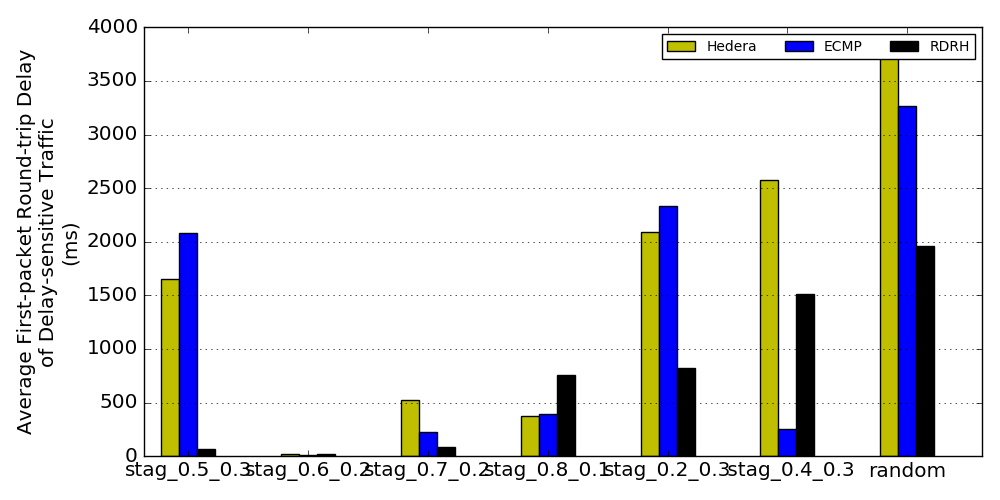
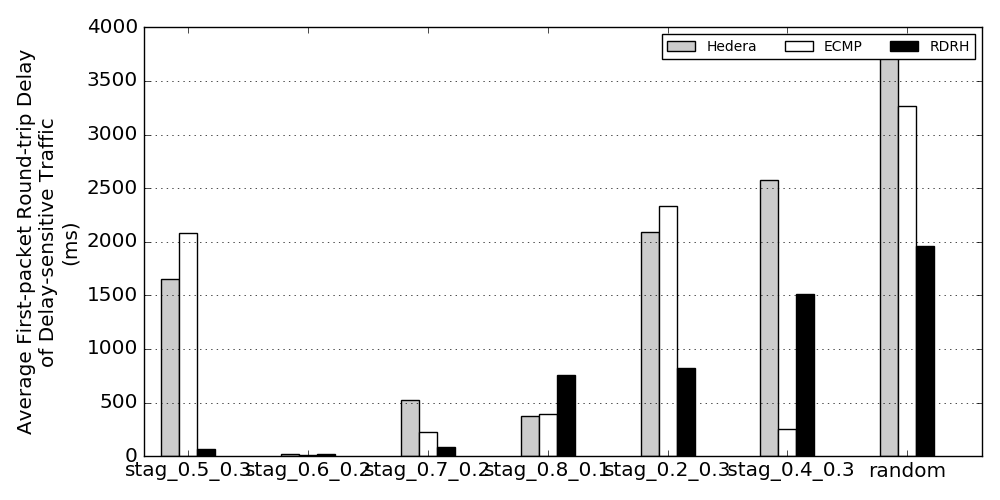
Experimeto k=8

diff --git a/plot_results.py b/plot_results.py
@@ -422,8 +422,8 @@ def plot_results():
 	TCC_value_list = get_value_list_2(throughput, traffics, item, 'TCC')	
 	index = np.arange(num_groups) + 0.15
 	bar_width = 0.15
-	plt.bar(index + 0 * bar_width, Hedera_value_list, bar_width, color='y', label='Hedera')
-	plt.bar(index + 1 * bar_width, ECMP_value_list, bar_width, color='b', label='ECMP')
+	plt.bar(index + 0 * bar_width, Hedera_value_list, bar_width, color='0.8', label='Hedera')
+	plt.bar(index + 1 * bar_width, ECMP_value_list, bar_width, color='w', label='ECMP')
 	plt.bar(index + 2 * bar_width, TCC_value_list, bar_width, color='k', label='RDRH')
 	plt.xticks(index + num_bar / 2.0 * bar_width, traffics_brief, fontsize='large')
 	plt.ylabel(u'Normalized Total Throughput\n', fontsize='x-large')
@@ -445,8 +445,8 @@ def plot_results():
 	TCC_value_list = get_value_list_2(first_packet_delay, traffics, item, 'TCC')
 	index = np.arange(num_groups) + 0.15
 	bar_width = 0.15
-	plt.bar(index + 0 * bar_width, Hedera_value_list, bar_width, color='y', label='Hedera')
-	plt.bar(index + 1 * bar_width, ECMP_value_list, bar_width, color='b', label='ECMP')
+	plt.bar(index + 0 * bar_width, Hedera_value_list, bar_width, color='0.8', label='Hedera')
+	plt.bar(index + 1 * bar_width, ECMP_value_list, bar_width, color='w', label='ECMP')
 	plt.bar(index + 2 * bar_width, TCC_value_list, bar_width, color='k', label='RDRH')
 	plt.xticks(index + num_bar / 2.0 * bar_width, traffics_brief, fontsize='large')
 	plt.ylabel(u'Average First-packet Round-trip Delay\nof Delay-sensitive Traffic\n(ms)', fontsize='large')
@@ -467,8 +467,8 @@ def plot_results():
 	TCC_value_list = get_value_list_3(first_packet_delay, traffics, items, 'TCC')
 	index = np.arange(num_groups) + 0.15
 	bar_width = 0.15
-	plt.bar(index + 0 * bar_width, Hedera_value_list, bar_width, color='y', label='Hedera')
-	plt.bar(index + 1 * bar_width, ECMP_value_list, bar_width, color='b', label='ECMP')
+	plt.bar(index + 0 * bar_width, Hedera_value_list, bar_width, color='0.8', label='Hedera')
+	plt.bar(index + 1 * bar_width, ECMP_value_list, bar_width, color='w', label='ECMP')
 	plt.bar(index + 2 * bar_width, TCC_value_list, bar_width, color='k', label='RDRH')
 	plt.xticks(index + num_bar / 2.0 * bar_width, traffics_brief, fontsize='large')
 	plt.ylabel(u'First-packet Loss Rate of\nDelay-sensitive Traffic\n', fontsize='large')
@@ -489,8 +489,8 @@ def plot_results():
 	TCC_value_list = get_value_list_2(average_delay, traffics, item, 'TCC')
 	index = np.arange(num_groups) + 0.15
 	bar_width = 0.15
-	plt.bar(index + 0 * bar_width, Hedera_value_list, bar_width, color='y', label='Hedera')
-	plt.bar(index + 1 * bar_width, ECMP_value_list, bar_width, color='b', label='ECMP')
+	plt.bar(index + 0 * bar_width, Hedera_value_list, bar_width, color='0.8', label='Hedera')
+	plt.bar(index + 1 * bar_width, ECMP_value_list, bar_width, color='w', label='ECMP')
 	plt.bar(index + 2 * bar_width, TCC_value_list, bar_width, color='k', label='RDRH')
 	plt.xticks(index + num_bar / 2.0 * bar_width, traffics_brief, fontsize='large')
 	plt.ylabel(u'Average Packet Round-trip Delay of\nDelay-sensitive Traffic\n(ms)', fontsize='large')
@@ -511,8 +511,8 @@ def plot_results():
 	TCC_value_list = get_value_list_3(average_delay, traffics, items, 'TCC')
 	index = np.arange(num_groups) + 0.15
 	bar_width = 0.15
-	plt.bar(index + 0 * bar_width, Hedera_value_list, bar_width, color='y', label='Hedera')
-	plt.bar(index + 1 * bar_width, ECMP_value_list, bar_width, color='b', label='ECMP')
+	plt.bar(index + 0 * bar_width, Hedera_value_list, bar_width, color='0.8', label='Hedera')
+	plt.bar(index + 1 * bar_width, ECMP_value_list, bar_width, color='w', label='ECMP')
 	plt.bar(index + 2 * bar_width, TCC_value_list, bar_width, color='k', label='RDRH')
 	plt.xticks(index + num_bar / 2.0 * bar_width, traffics_brief, fontsize='large')
 	plt.ylabel(u'Packet Loss Rate of\nDelay-sensitive Traffic\n', fontsize='large')
@@ -533,8 +533,8 @@ def plot_results():
 	TCC_value_list = get_value_list_2(average_delay, traffics, item, 'TCC')
 	index = np.arange(num_groups) + 0.15
 	bar_width = 0.15
-	plt.bar(index + 0 * bar_width, Hedera_value_list, bar_width, color='y', label='Hedera')
-	plt.bar(index + 1 * bar_width, ECMP_value_list, bar_width, color='b', label='ECMP')
+	plt.bar(index + 0 * bar_width, Hedera_value_list, bar_width, color='0.8', label='Hedera')
+	plt.bar(index + 1 * bar_width, ECMP_value_list, bar_width, color='w', label='ECMP')
 	plt.bar(index + 2 * bar_width, TCC_value_list, bar_width, color='k', label='RDRH')
 	plt.xticks(index + num_bar / 2.0 * bar_width, traffics_brief, fontsize='large')
 	plt.ylabel(u'Mean Deviation of Round-trip Delay\nof Delay-sensitive Traffic\n(ms)', fontsize='large')
